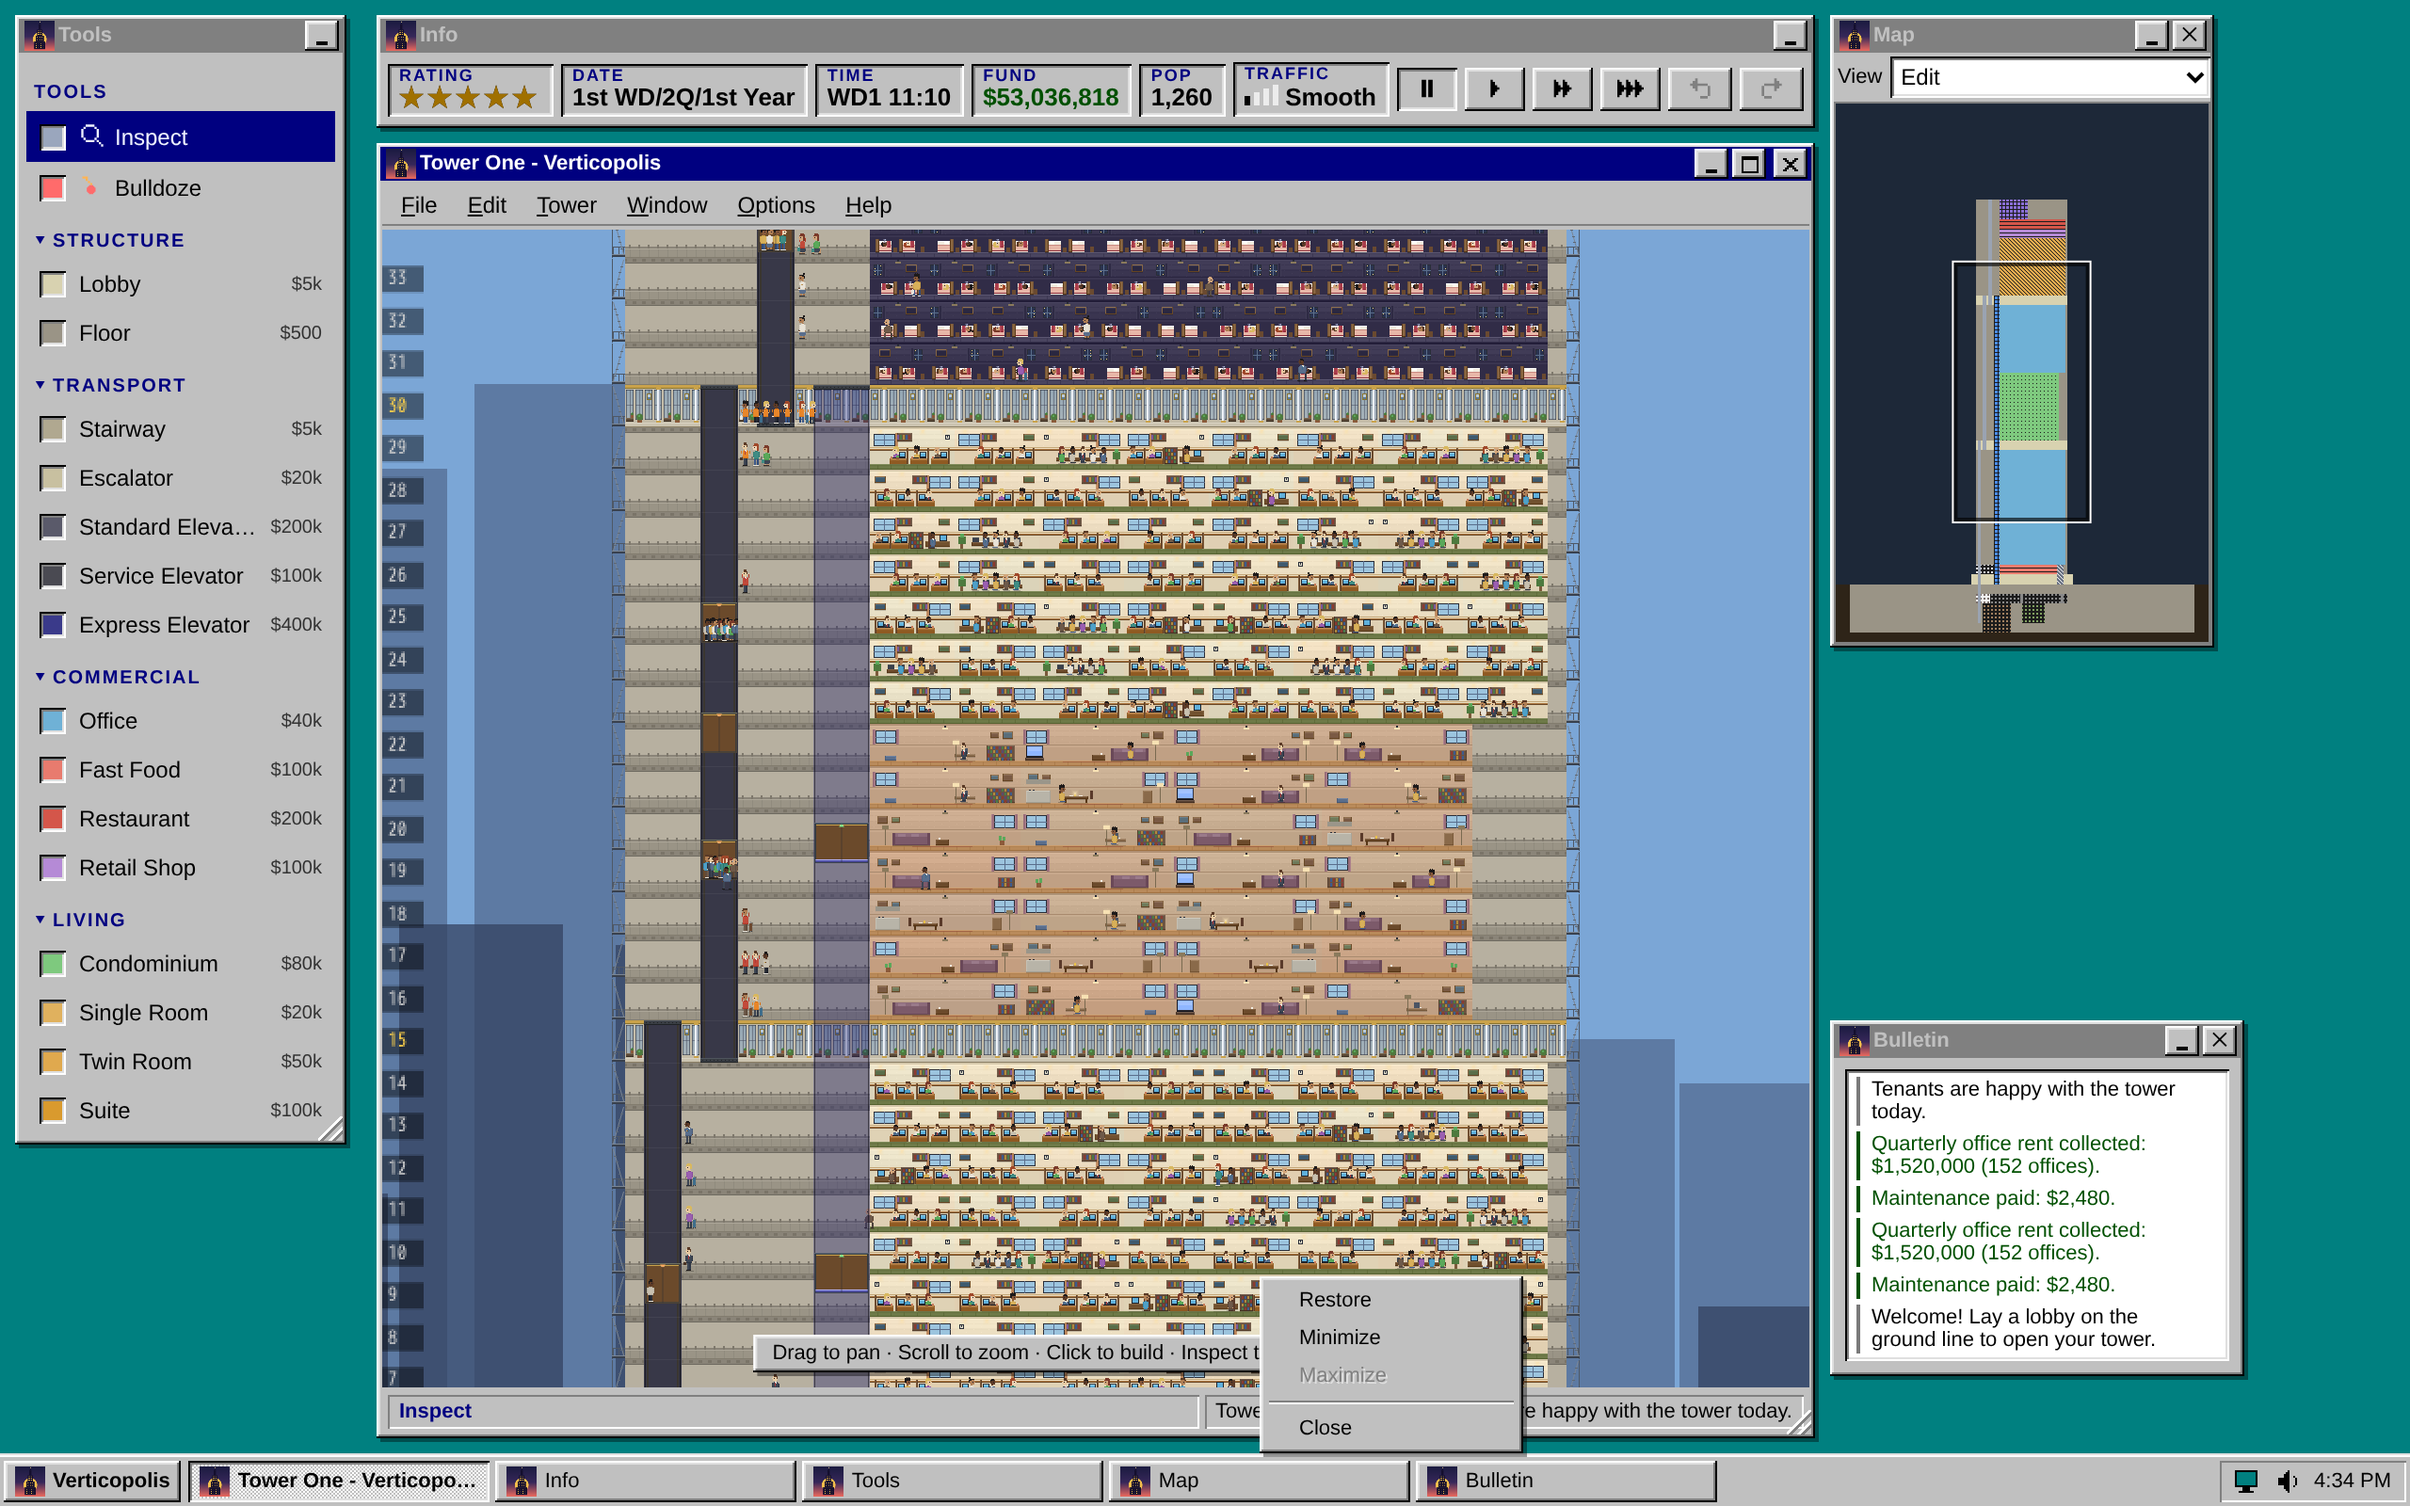
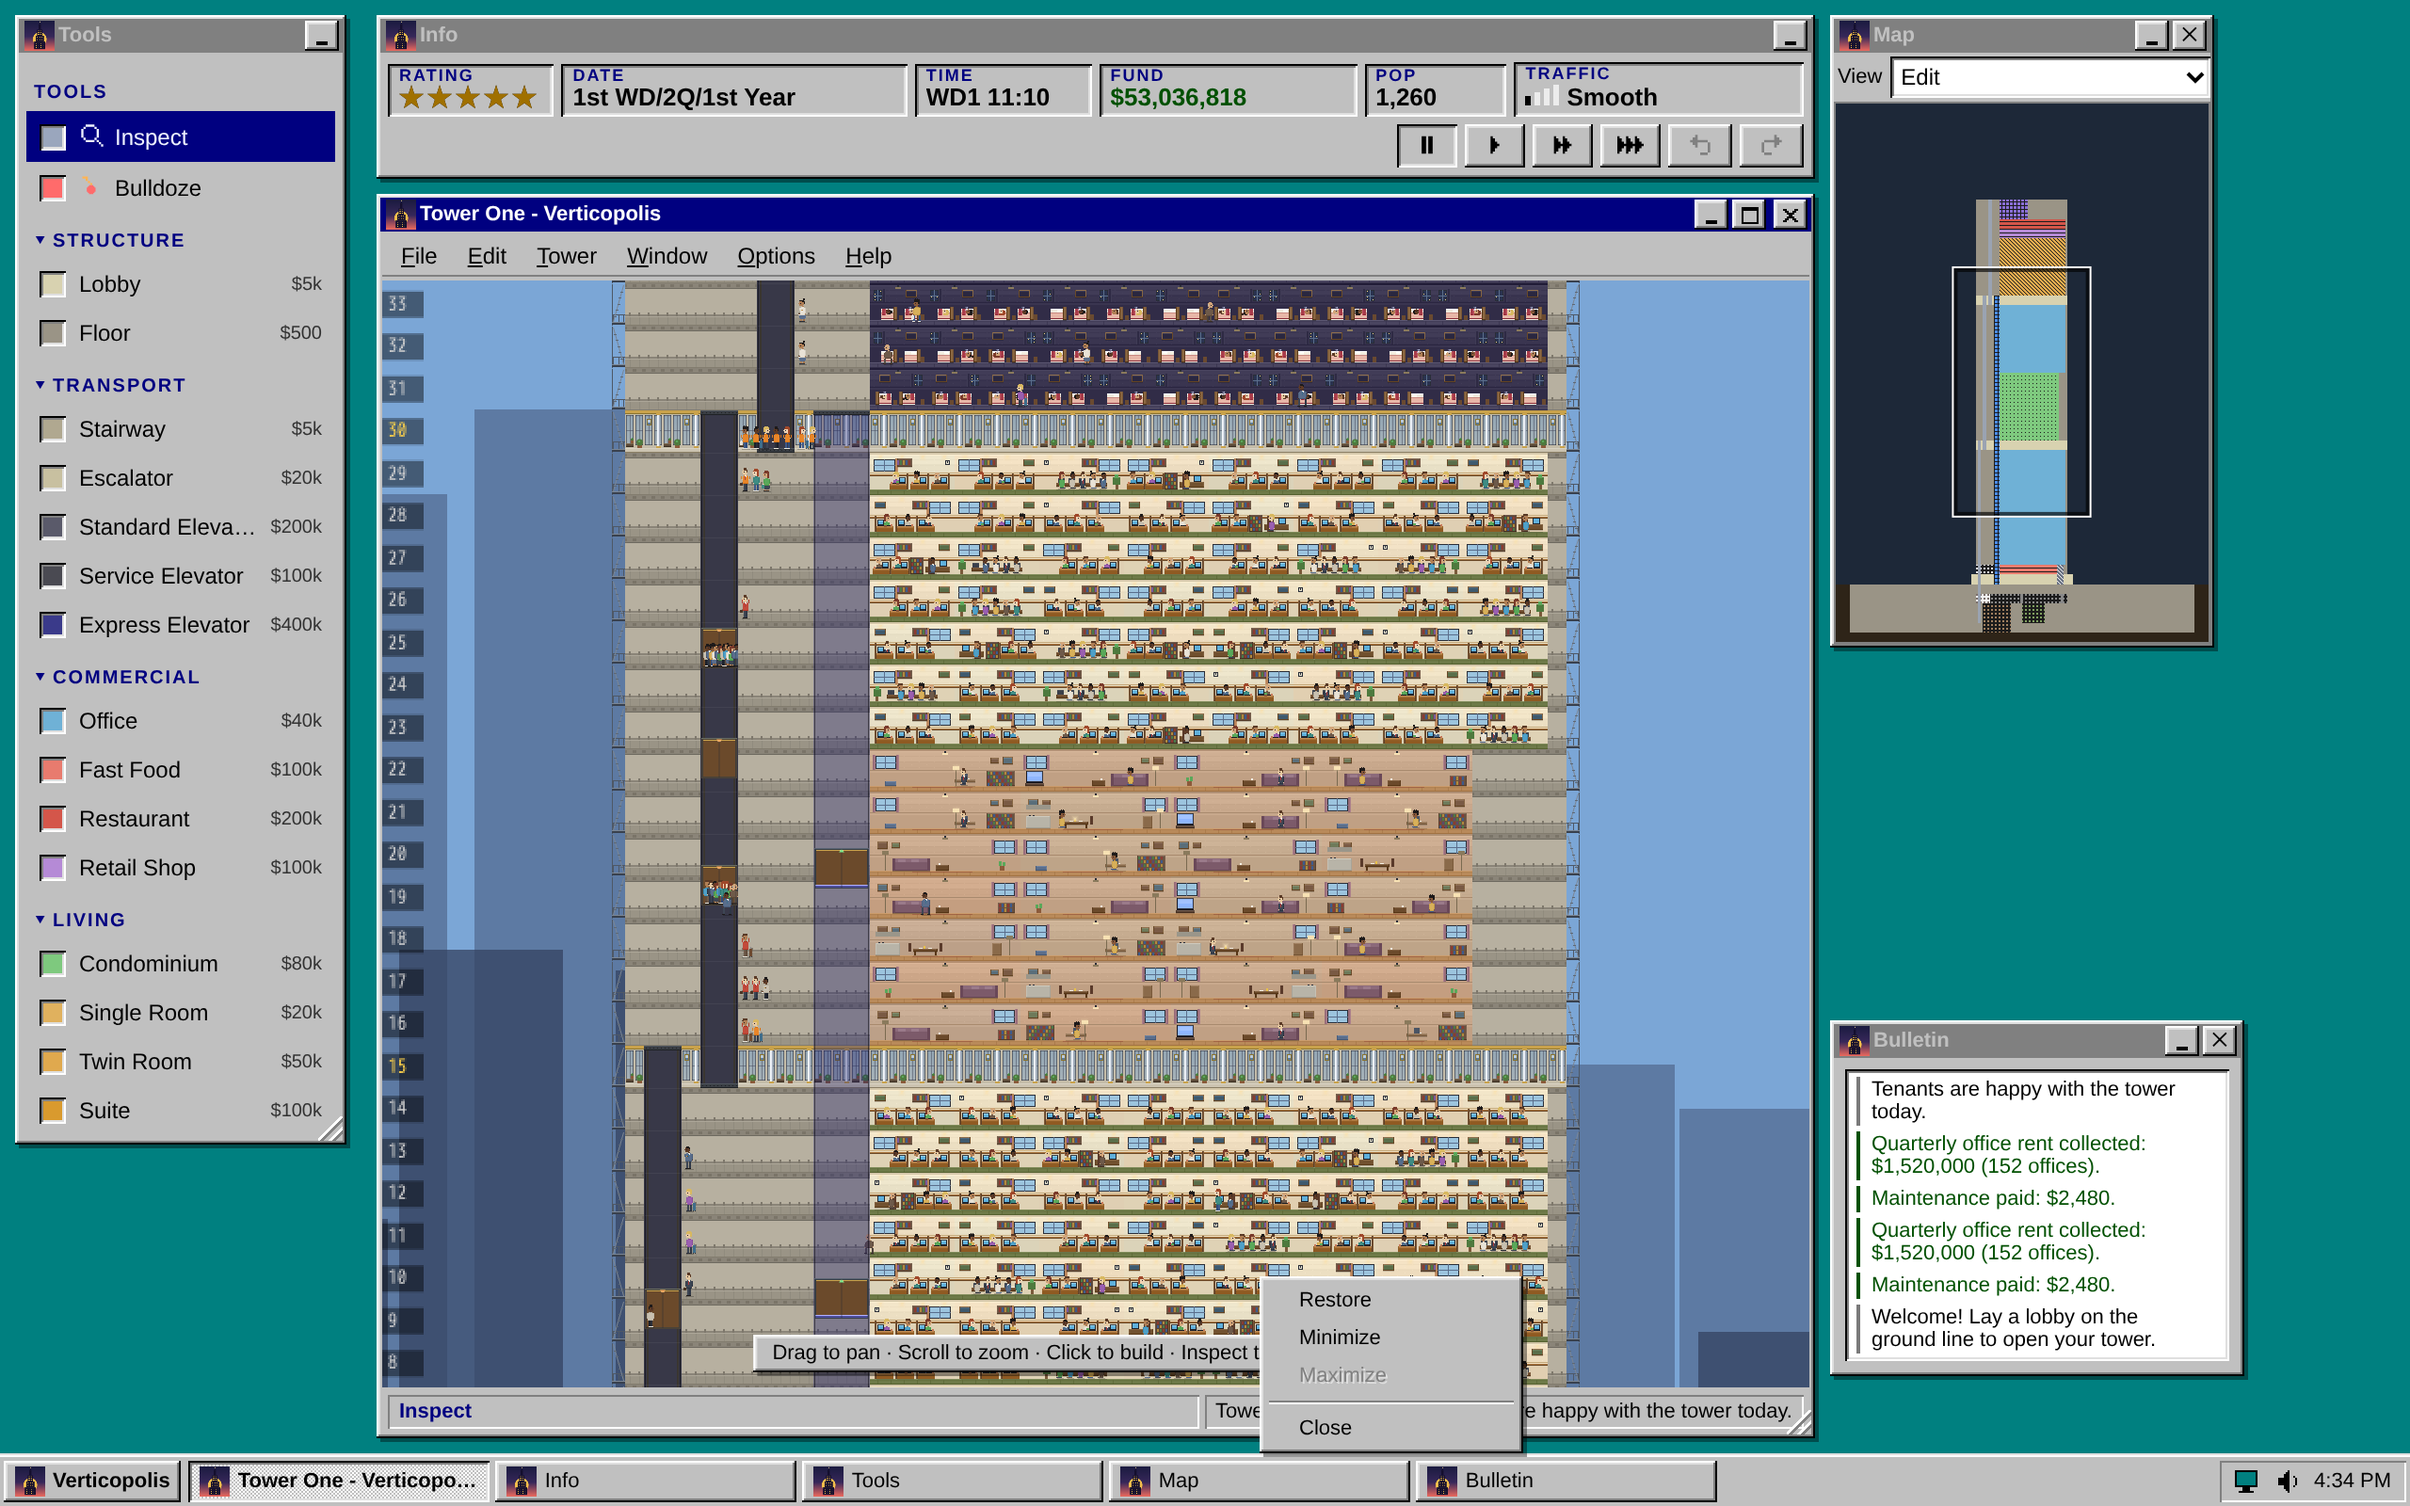
Keep Info's meters one width each on the desktop
The desk lays the tower out under Info's height when it opens. A later
reading that was wider (a named Traffic floor, a longer date, a bigger fund)
rewrapped the strip and dropped the speed buttons to a second row under the
tower's title bar. Info's changing meters now keep fixed widths, as the
phone's landscape strip does, so the row count depends only on Info's width:
one row on a wide desktop, the buttons on a second row on a narrow one from
the start. Traffic trims its tier word before the floor. Desk screenshots
re-rendered in the pinned image.

Claude-Session: https://claude.ai/code/session_01Ms7trZF8QXtbiio9t4Ku1j

diff --git a/src/styles/game/desk.css b/src/styles/game/desk.css
@@ -187,6 +187,54 @@ body.desk #speed {
   flex: none;
   flex-wrap: nowrap;
 }
+/* The meters whose values change in play (the traffic tier and floor, the
+   time, the date, the funds and the population) each keep a fixed width,
+   as the phone's landscape strip does, so a new value can never rewrap
+   Info. The desk lays the tower out under Info's height when it opens; a
+   later rewrap (a named floor, a longer date, a bigger fund) dropped the
+   speed buttons to a second row under the tower's title bar. Now the row
+   count depends only on Info's width: one row on a wide desk, the buttons
+   on a second row on a narrow one from the start. The widths are the
+   landscape strip's, which fit each meter's longest value ("Backed up ·
+   100F", "WD2 00:00", "2nd WD/4Q/122nd Year", "$-1,000,000,000",
+   "100,000"); only a still longer value trims with an ellipsis. */
+body.desk #stat-time,
+body.desk #stat-date,
+body.desk #stat-money,
+body.desk #stat-pop {
+  display: block;
+  overflow: hidden;
+  text-overflow: ellipsis;
+  white-space: nowrap;
+}
+body.desk #stat-time { width: 6.2em; }
+body.desk #stat-date { width: 13.1em; }
+body.desk #stat-money { width: 9.5em; }
+body.desk #stat-pop { width: 4.8em; }
+/* Traffic trims the tier word first and keeps the meter and the floor, the
+   fact the readout is there to give. */
+body.desk #traffic {
+  display: flex;
+  align-items: baseline;
+  overflow: hidden;
+  width: 10.8em;
+}
+body.desk #traffic-glyph {
+  margin-inline-end: 0.3em;
+}
+body.desk #traffic-glyph,
+body.desk #traffic-floor {
+  flex: none;
+}
+body.desk #traffic-floor {
+  white-space: pre;
+}
+body.desk #traffic-label {
+  min-width: 0;
+  overflow: hidden;
+  text-overflow: ellipsis;
+  white-space: nowrap;
+}
 /* The tray's speaker has the sound and File > Save saves, so Info keeps to
    the clock's six buttons on one row and ends right under them. */
 body.desk #speed > #audio-toggle,

diff --git a/src/index.html b/src/index.html
@@ -245,7 +245,7 @@
             <span class="label">POP</span>
             <span id="stat-pop" class="value">0</span>
           </div>
-          <div class="stat" title="Vertical transport traffic / congestion. Tap to go to the busiest floor">
+          <div class="stat" title="Vertical transport traffic: the worst waiting line. Tap to go to it">
             <span class="label">TRAFFIC</span>
             <span id="traffic" class="value" role="button" tabindex="0" aria-live="polite" aria-label="Traffic: Smooth"
               ><span id="traffic-glyph" aria-hidden="true" data-level="smooth"></span> <span id="traffic-label">Smooth</span><span id="traffic-floor" aria-hidden="true"></span></span>

diff --git a/.changes/claude-project-thread-zruvwf.md b/.changes/claude-project-thread-zruvwf.md
@@ -4,6 +4,7 @@ crate: minor
 ---
 ## Player
 - The Traffic readout now follows the worst line of people waiting for an elevator right now, so "Backed up · B4" means a crowd you can find, and it no longer stays red at night with nobody waiting. Tapping it zooms in on that line and marks just its stretch of the floor and its elevator, instead of the whole floor and every elevator that stops there.
+- On the desktop, Info's meters keep one width each, so a named floor, a longer date or a bigger fund can no longer push the speed buttons under the tower's title bar.
 
 ## Engine
 - New `queueLine(shaft, floor)` read: how far one elevator landing's waiting line reaches along its floor, from the shaft face to the rider standing farthest from it, so a host can mark one line in a bank of elevators whose lines run across each other.
